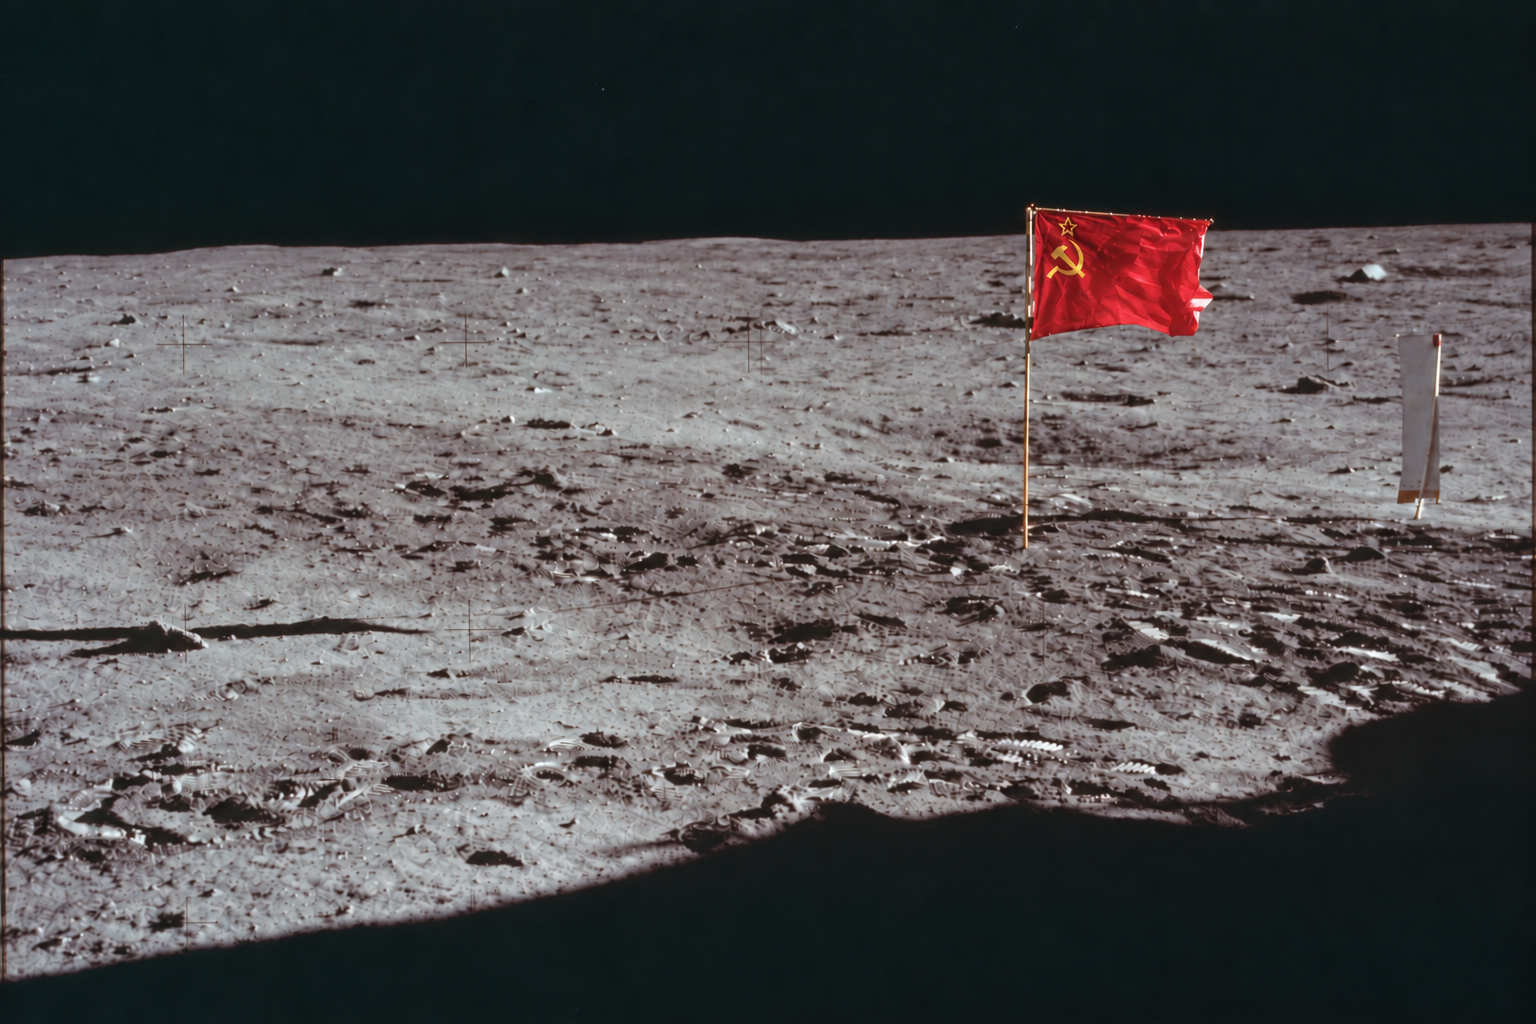
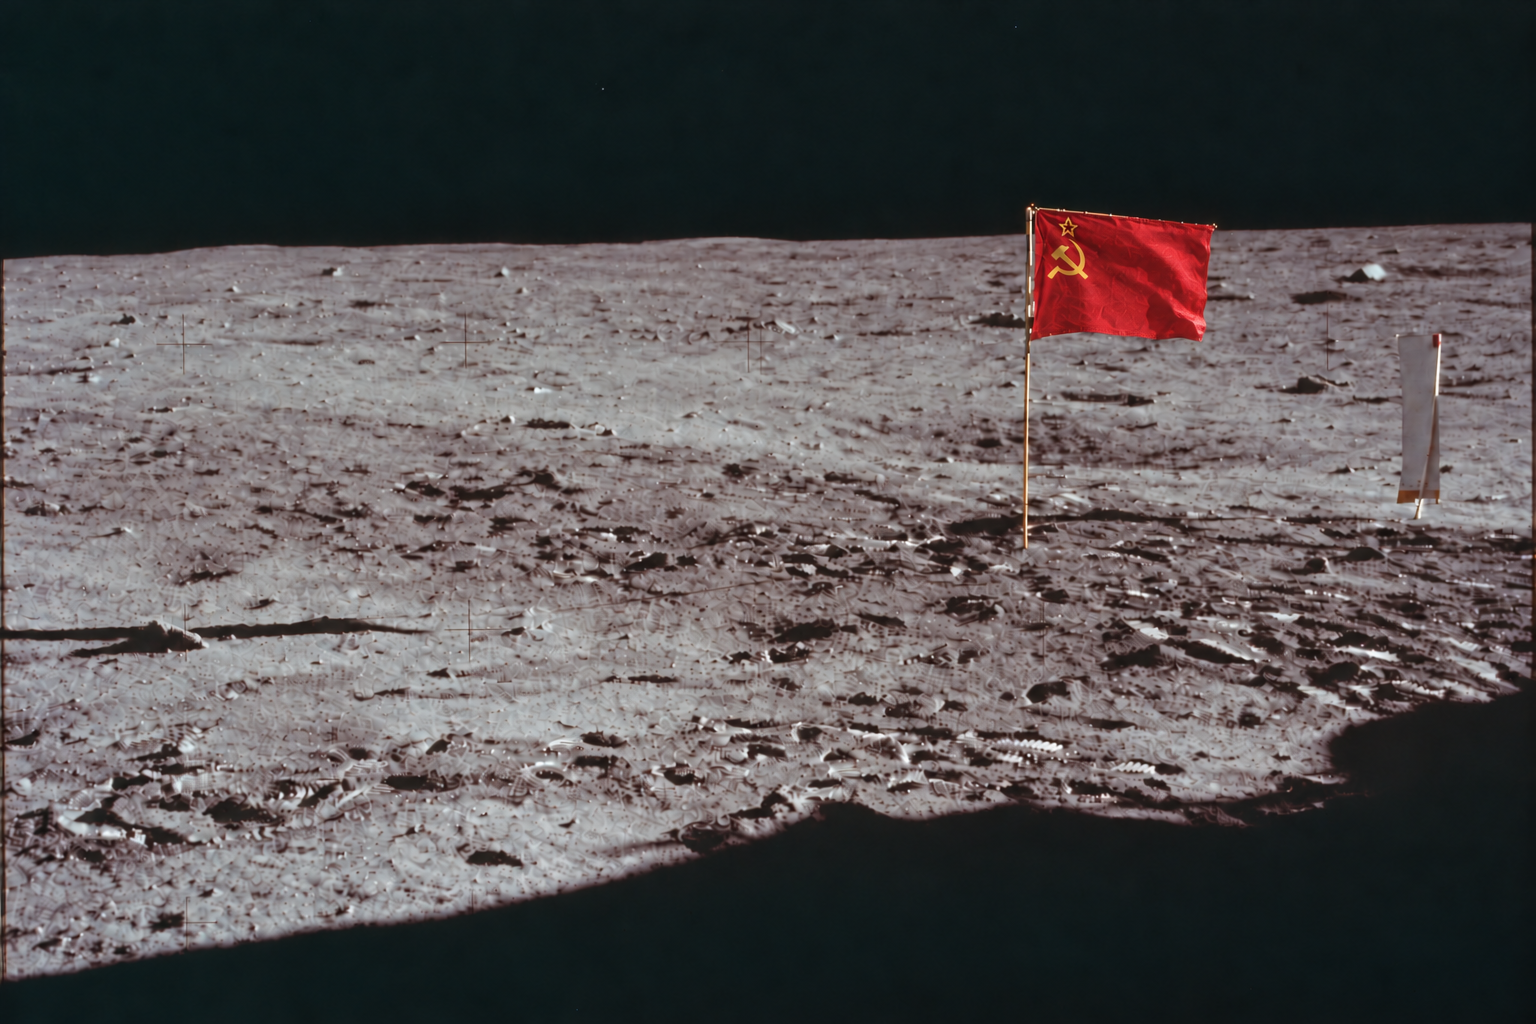
Remove residual American stripe patterns from Soviet flags

Changed region(s): [[0.6562, 0.1875, 0.8125, 0.3438]]

diff --git a/projects/false-negative/originals/Apollo 11 moonlanding/NEW-EDITS.md b/projects/false-negative/originals/Apollo 11 moonlanding/NEW-EDITS.md
@@ -11,6 +11,6 @@ Created and revised 2 November 2026 with the built-in image_gen tool. Six fictio
 | [Lunar Surface Portrait](Soviet%20Flags%20-%20Lunar%20Surface%20Portrait.png) | [GPN-2001-000013h.jpg](alternatives/GPN-2001-000013h.jpg) | 1024 x 1536 | [Prompt](Soviet%20Flags%20-%20Lunar%20Surface%20Portrait.prompt.txt) |
 | [Apollo Crew Portrait](Soviet%20Flags%20-%20Apollo%20Crew%20Portrait.png) | [GPN-2000-001164h.jpg](alternatives/GPN-2000-001164h.jpg) | 1536 x 1024 | [Prompt](Soviet%20Flags%20-%20Apollo%20Crew%20Portrait.prompt.txt) |
 
-The four planted-flag views were revised using their original photographs as the primary material reference, emphasizing thin nylon, sharp packing creases, original folds, hems and uneven highlights. Soviet designs also replace the alternate-pose astronaut's shoulder flag and both the backpack patch and spacecraft decal in the lunar-module view. The added lunar-surface portrait replaces its visible sleeve flag; the crew portrait replaces all three sleeve flags. Patches retain cloth texture and spacecraft markings remain flat decals. NASA badges and name labels are retained.
+The four planted-flag views were corrected again to remove residual American stripes and star patterns. The final edits use the plain red cloth in Soviet Flag on the Moon.png as their design and material reference, replacing the old surface with continuous red fabric, irregular folds, and a single gold hammer-and-sickle with an outlined star near the hoist. Cloth folds were allowed to change to eliminate the old pattern. Soviet designs also replace the alternate-pose astronaut's shoulder flag and both the backpack patch and spacecraft decal in the lunar-module view. The lunar-surface portrait replaces its visible sleeve flag; the crew portrait replaces all three sleeve flags. Patches retain cloth texture and spacecraft markings remain flat decals. NASA badges and name labels are retained.
 
-All six outputs were visually compared with their references, including small flag areas, and checked for PNG integrity and exact aspect ratio. AI editing can introduce local variations in folds and other details; these are fictional artworks, not archival reproductions. The source JPEGs and original Soviet Flag on the Moon.png were left untouched. Adjacent prompt files record the selected source-edit and final cleanup prompts.
+All six outputs were visually reviewed, including small flag areas. The four corrected planted flags were checked specifically for stripe-shaped light bands, repeating American star ghosts and emblem placement, and their PNG integrity and exact aspect ratios were verified. AI editing can introduce local variations in folds and other details; these are fictional artworks, not archival reproductions. The source JPEGs, two additional portraits and original Soviet Flag on the Moon.png were left untouched in this correction. Adjacent prompt files record the final selected prompts.
